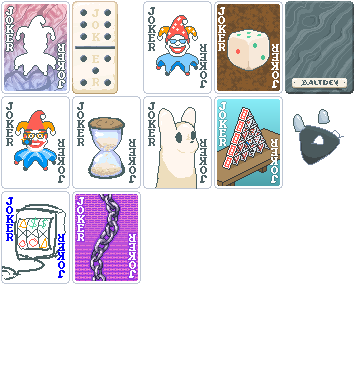
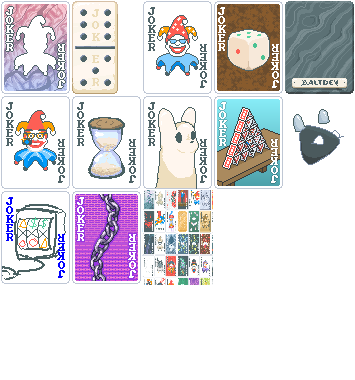
fuck it

Changed region(s): [[0.4028, 0.4921, 0.6197, 0.7526]]

diff --git a/README.md b/README.md
@@ -1,7 +1,5 @@
 # Jimbotomy
 A bunch of terrible jokers.
 
-This mod is no longer being maintained outside of critical bugfixes.
-
 ## Attributions
 Domino sound from https://freesound.org/people/Irissie16/sounds/421596/
